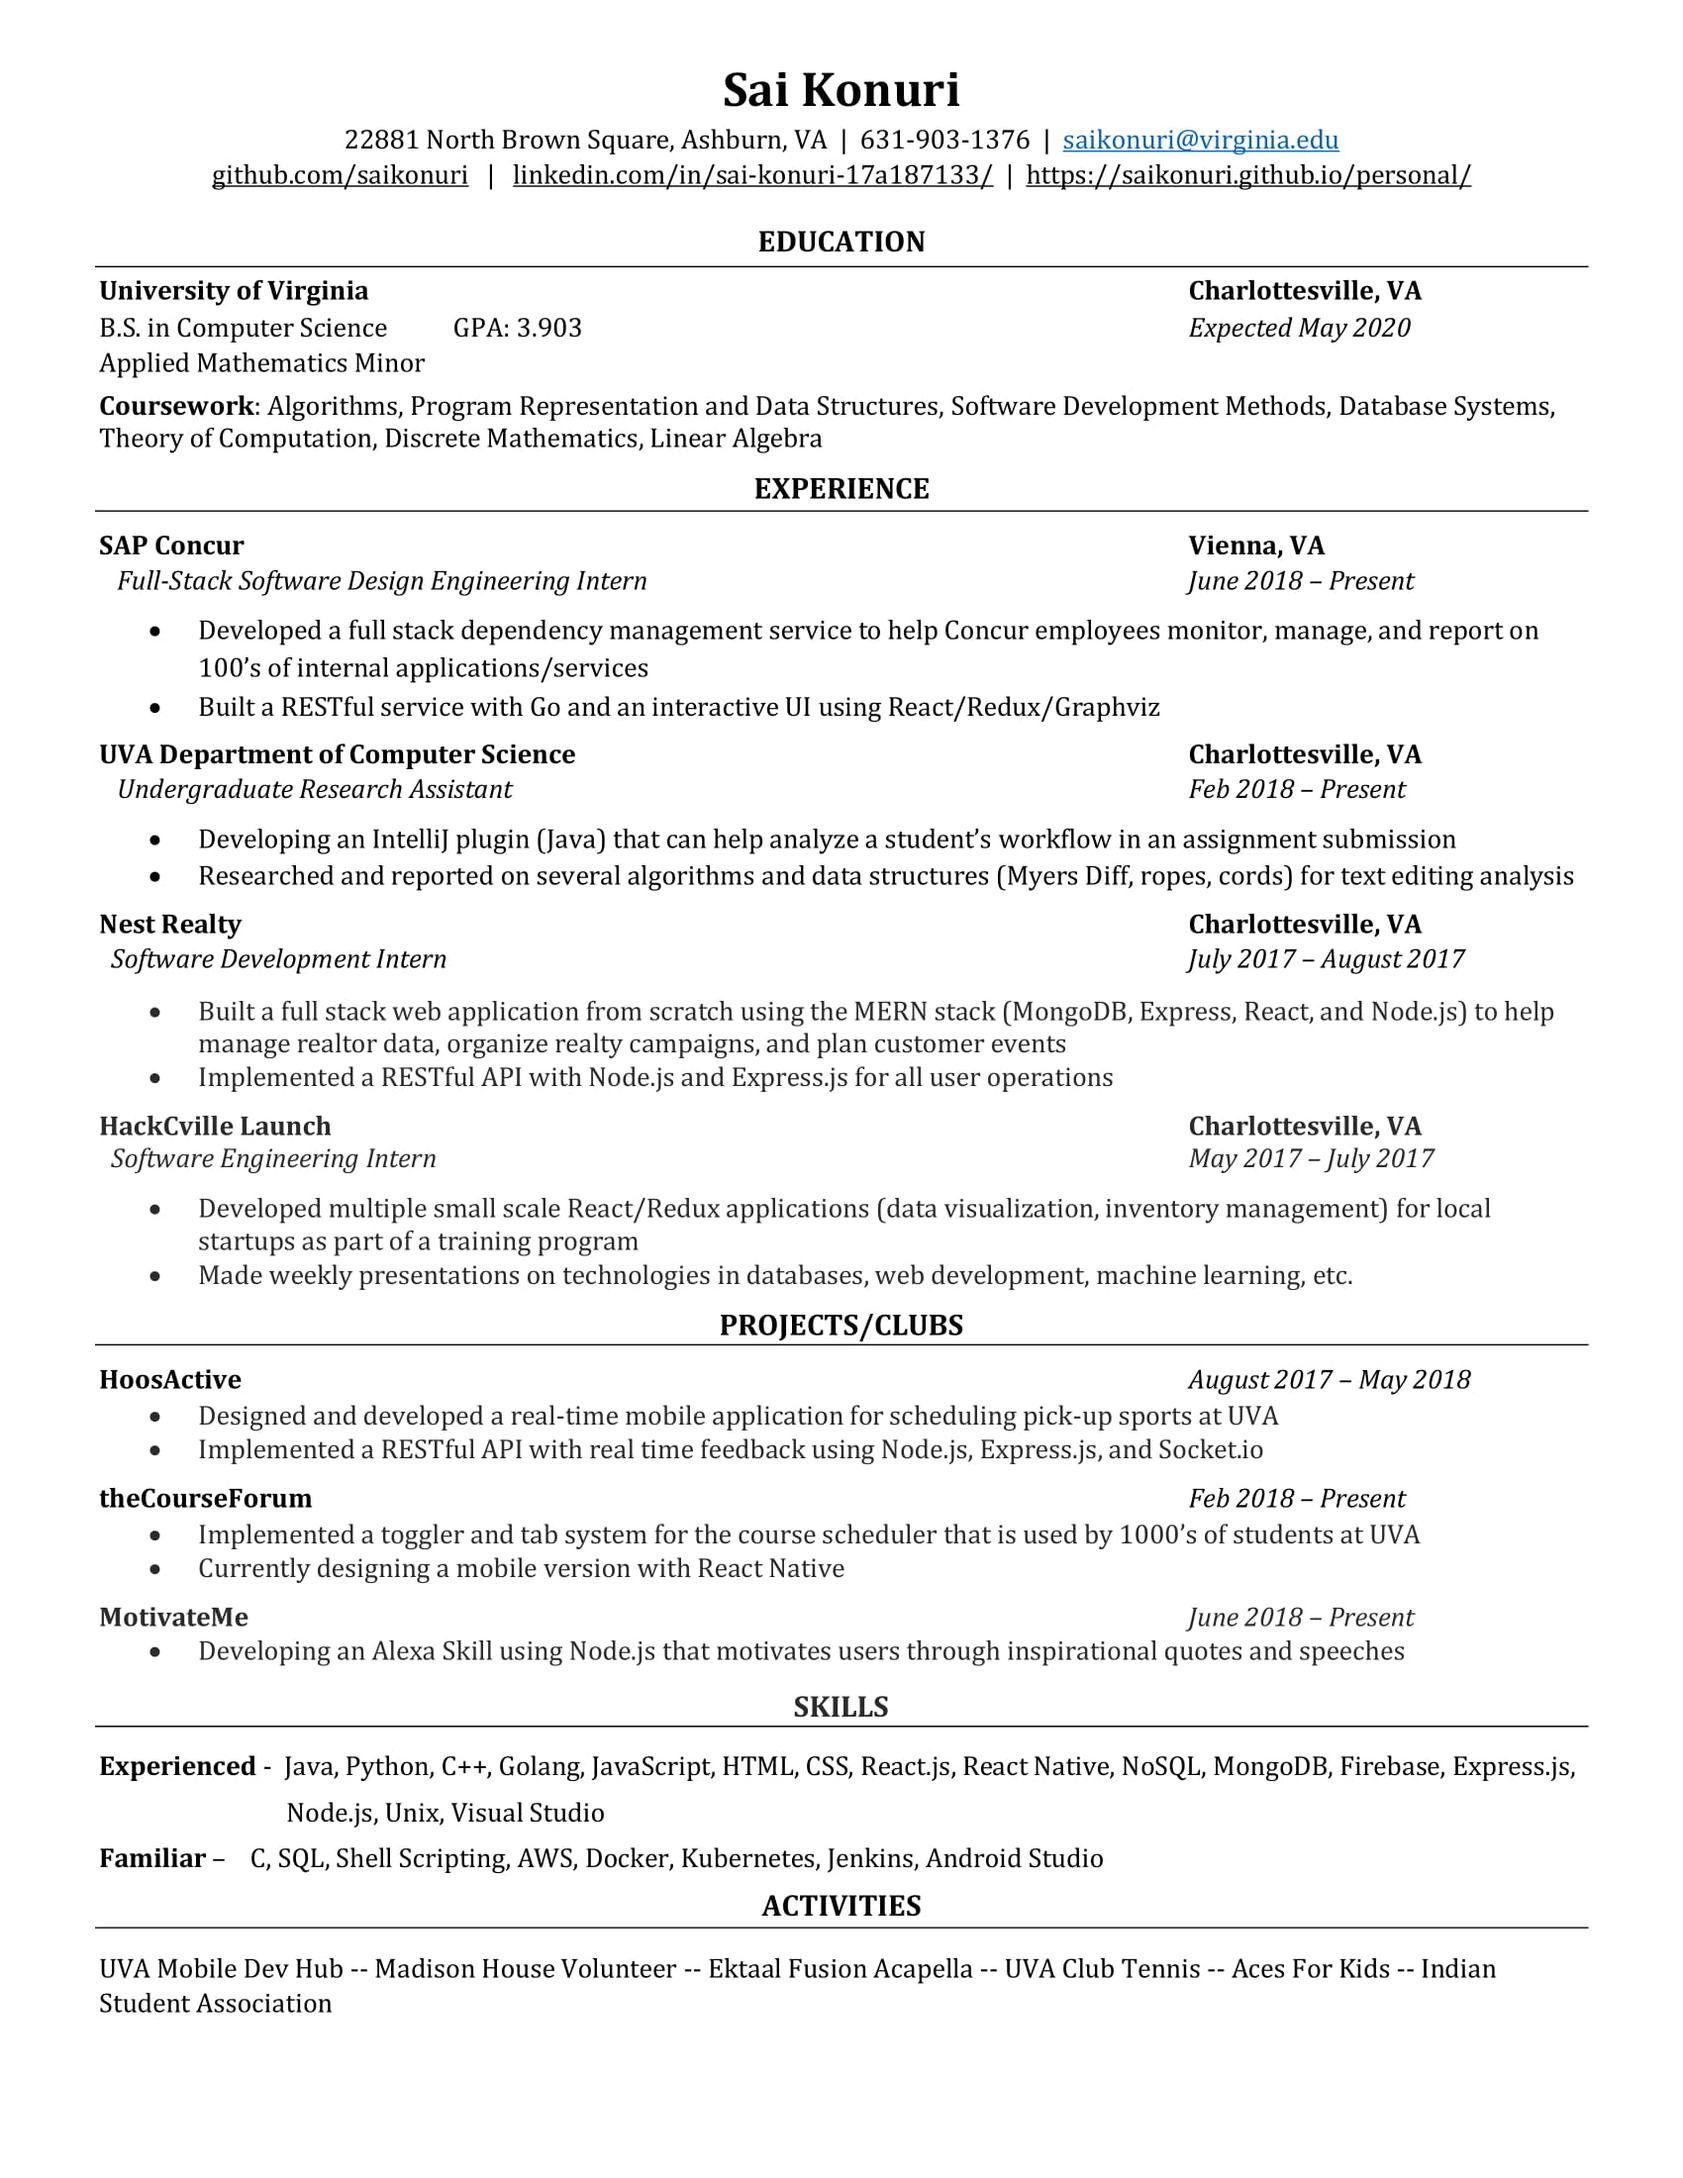
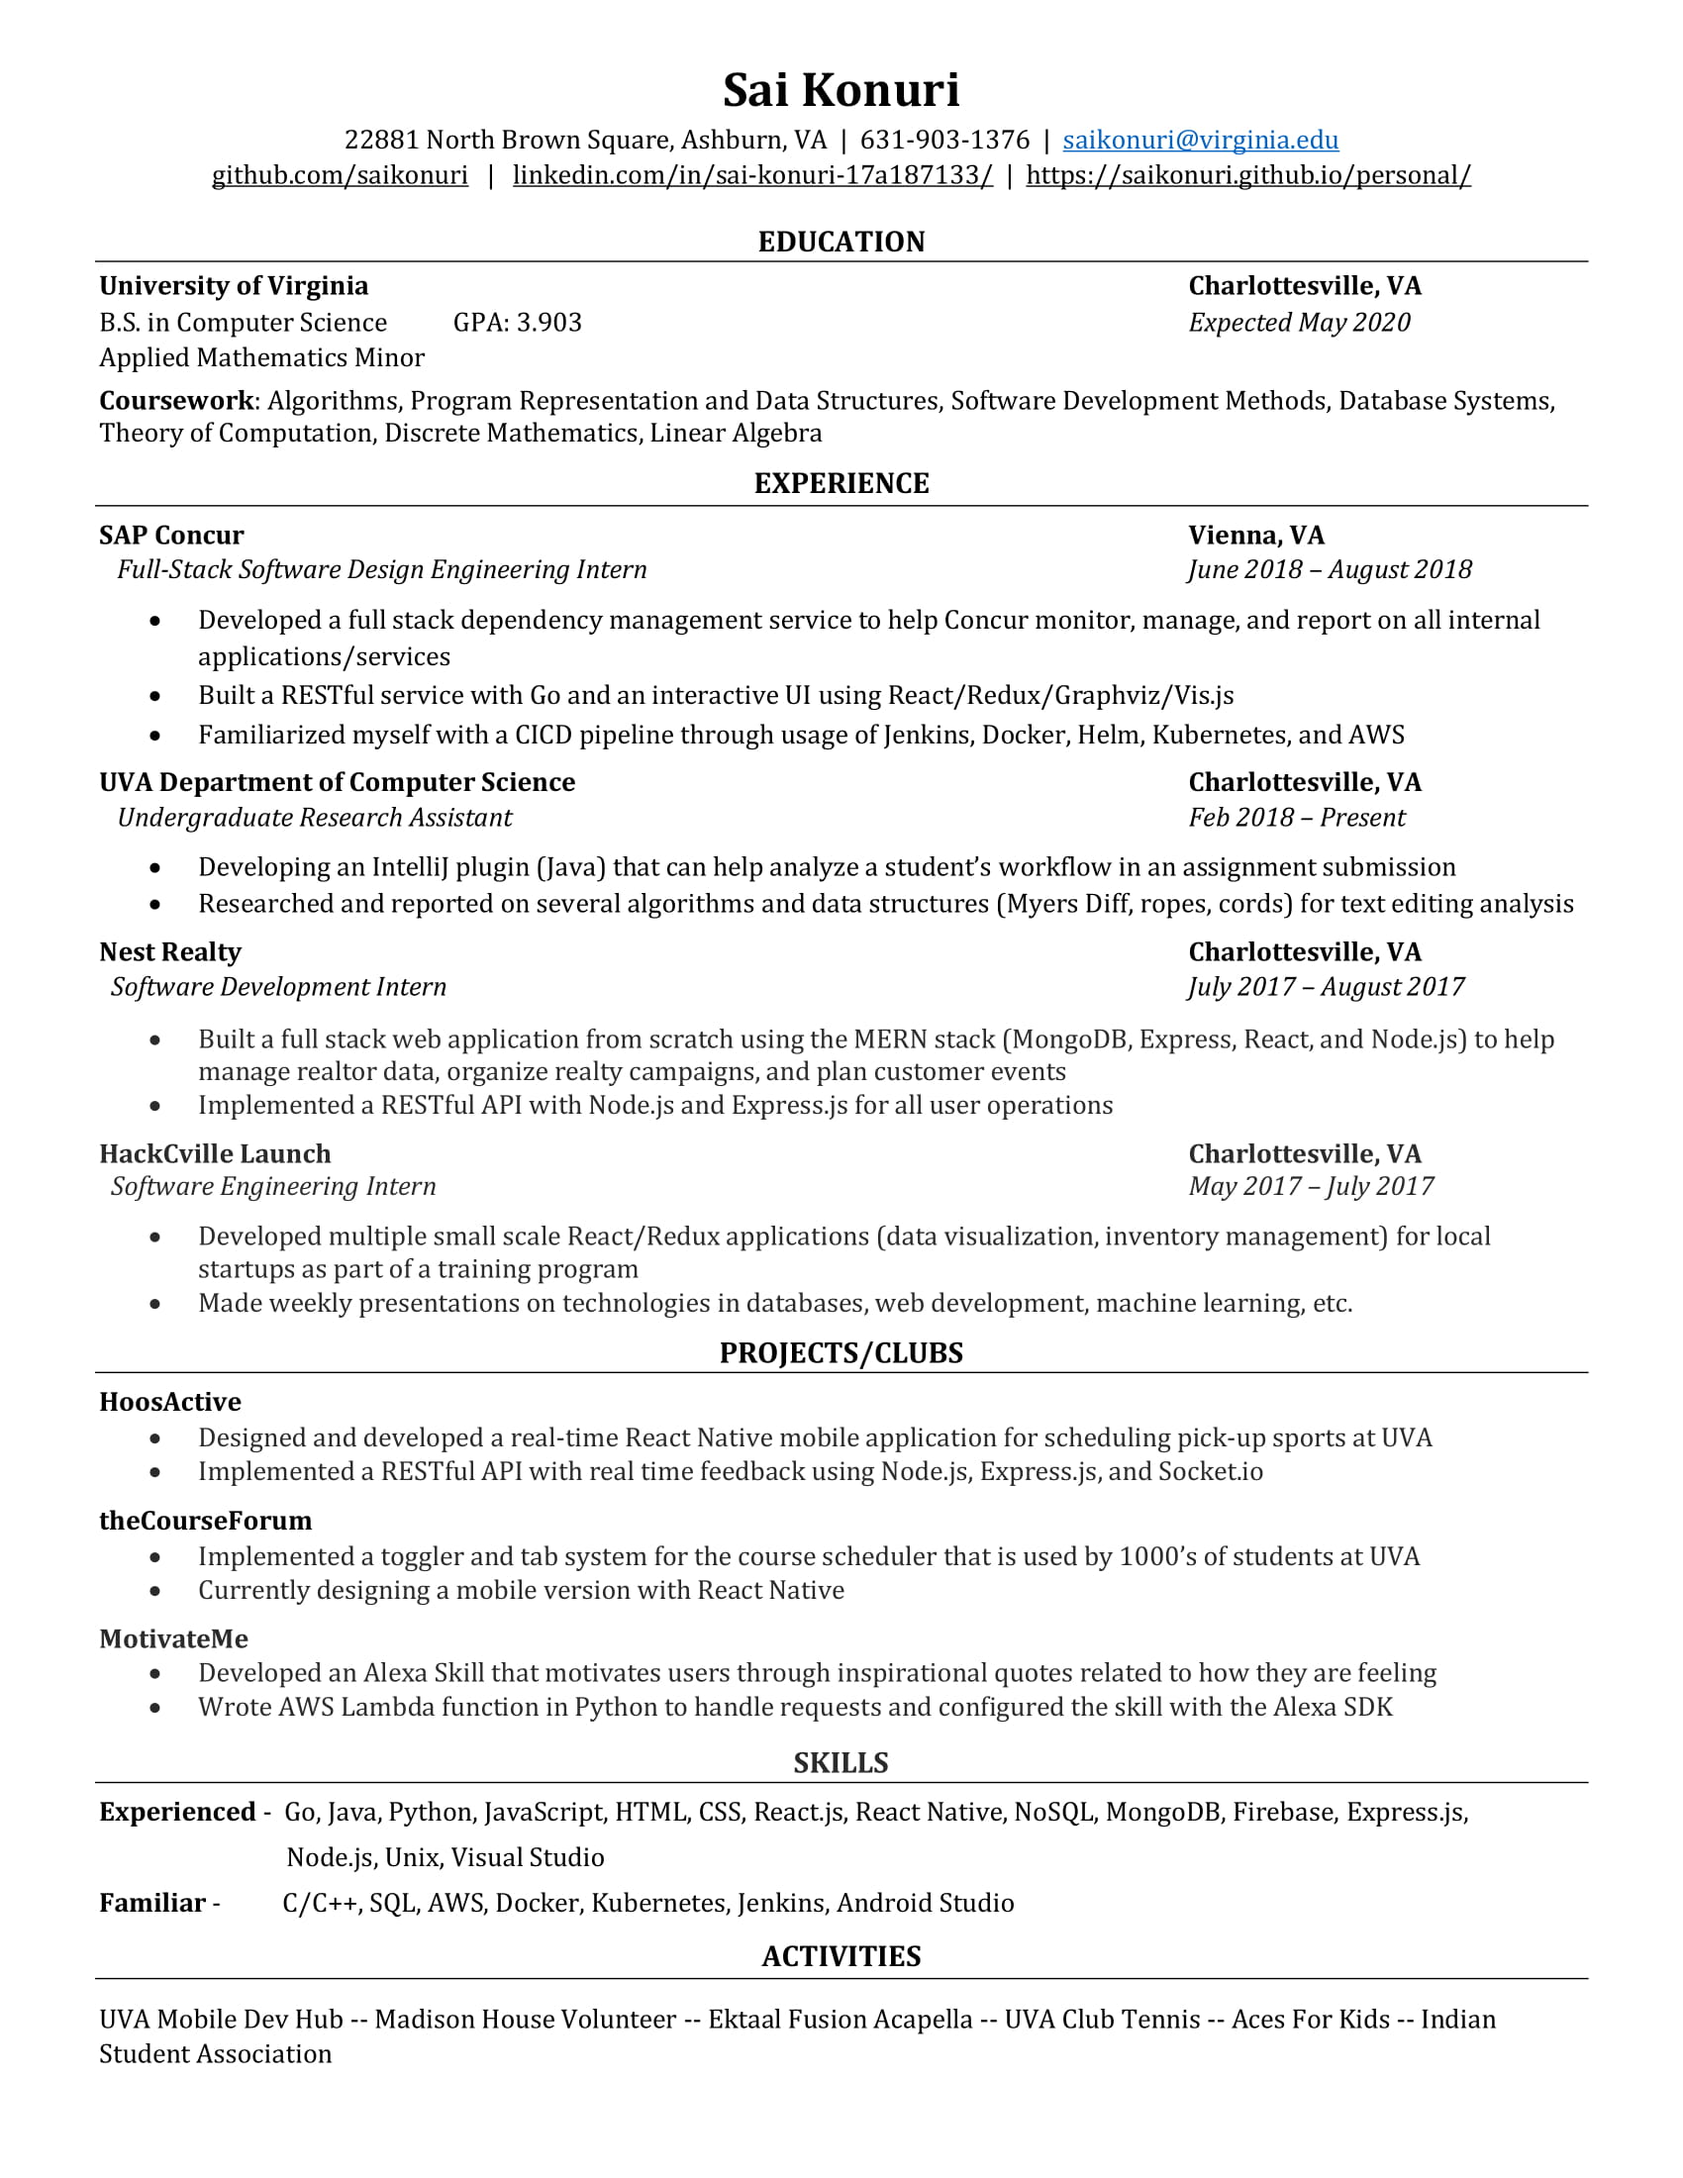
Resume Change

diff --git a/src/Alexa.js b/src/Alexa.js
@@ -15,7 +15,7 @@ export default class Alexa extends React.Component {
         <div>
           <Container text>
             <p id="desc">
-              • Developing an Alexa Skill using the Alexa SDK and Node.js
+              • Developed an Alexa Skill using the Alexa SDK and Python (AWS Lambda function)
                   <br />
               <br />
               • Hoping to help students get motivated by offering daily inspirational quotes and speeches
